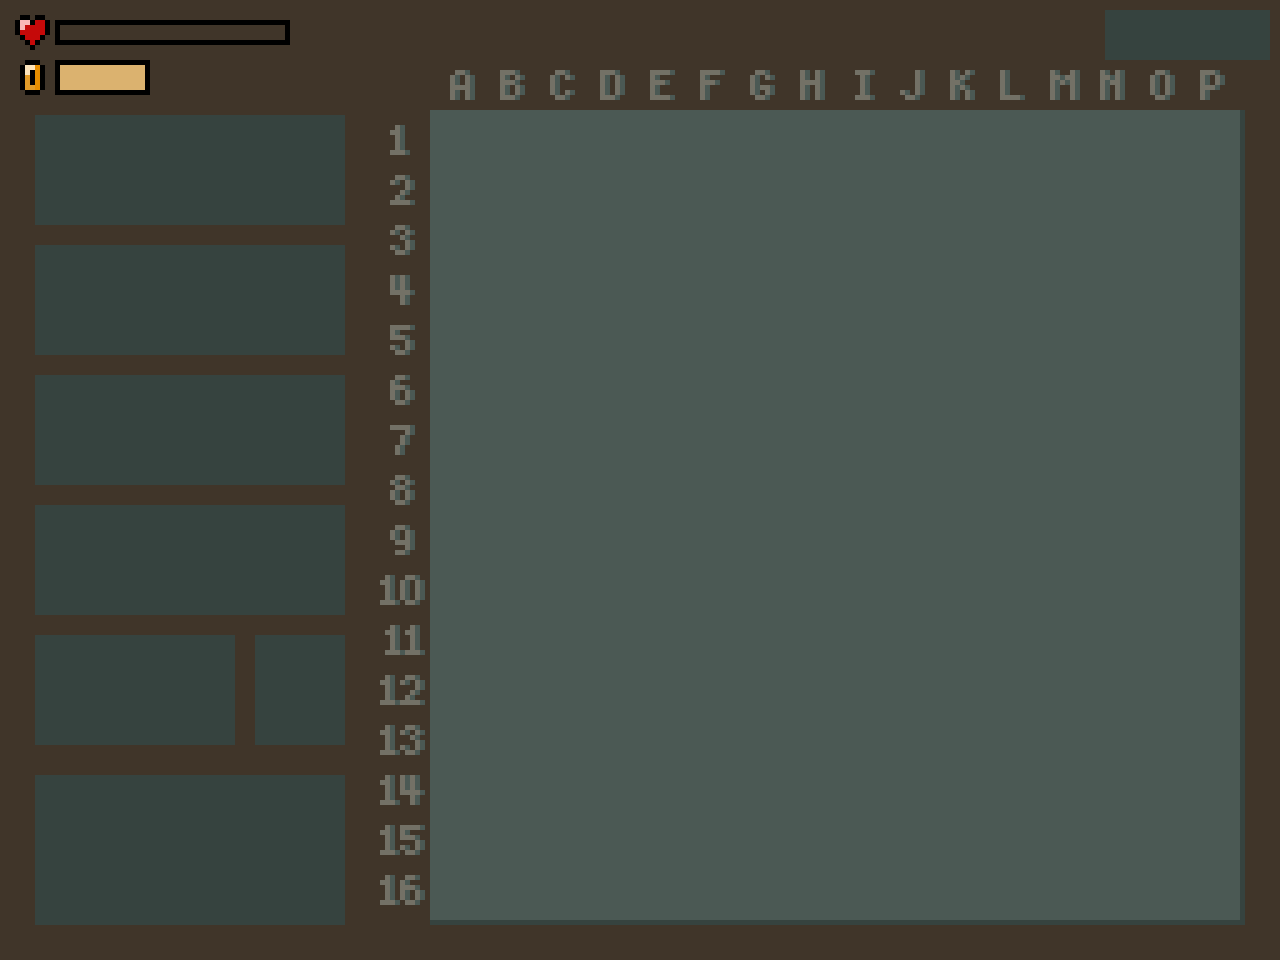
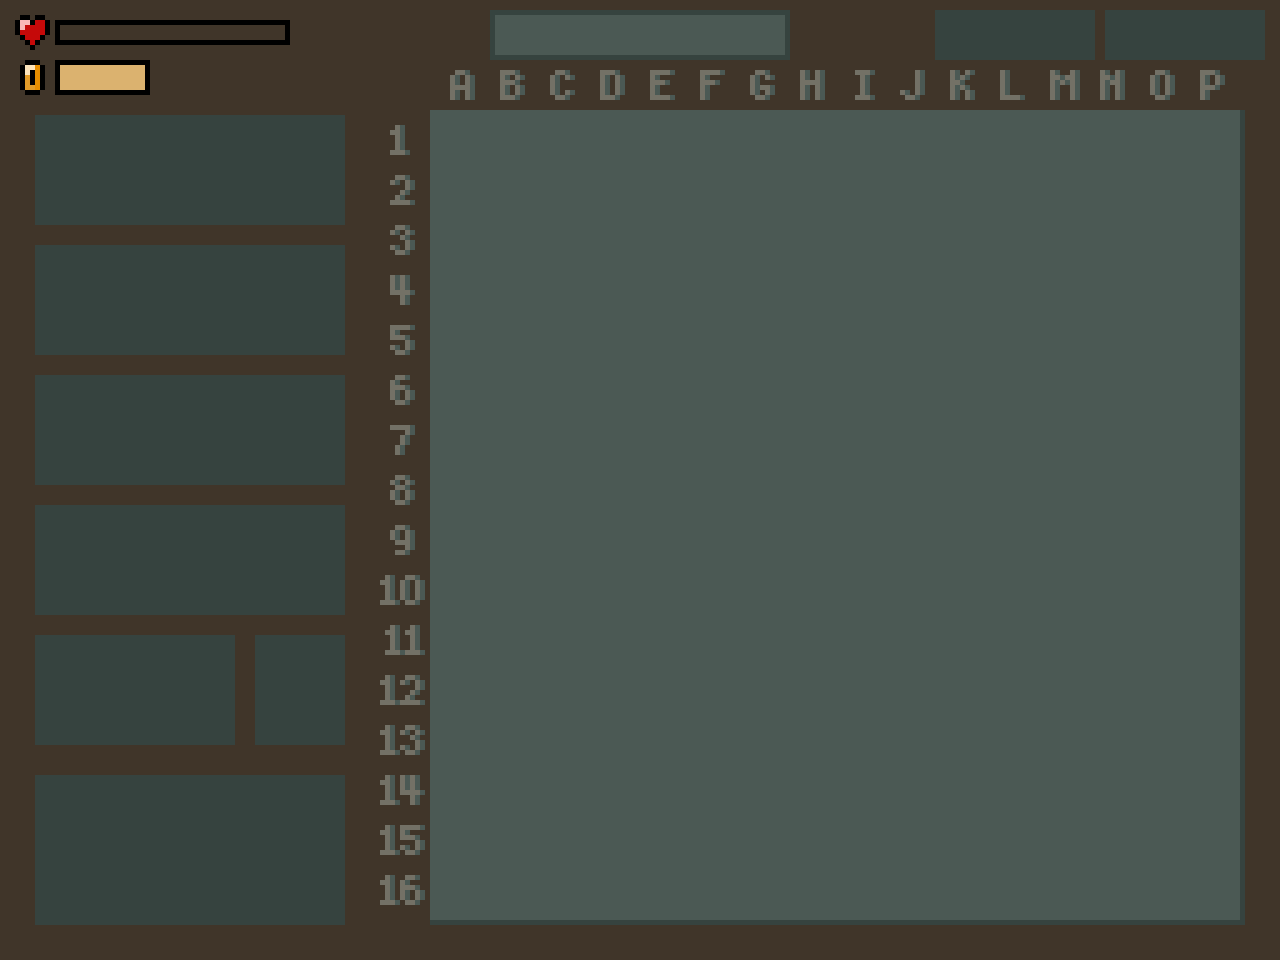
Added Level title and retry button

Changed region(s): [[0.375, 0.0, 0.625, 0.0625]]

diff --git a/leveldata.py b/leveldata.py
@@ -3,7 +3,7 @@ level_data = [
     {
         "levelno": 0,
         "startmoney": 99999,
-        "tiles":[
+        "tiles": [
             [1, 1, 1, 1, 1, 1, 1, 1, 1, 1, 1, 1, 1, 1, 1, 1],
             [1, 1, 1, 1, 1, 1, 1, 1, 1, 1, 1, 1, 1, 1, 1, 1],
             [1, 1, 0, 0, 0, 0, 0, 0, 1, 0, 0, 0, 0, 0, 1, 1],
@@ -21,7 +21,7 @@ level_data = [
             [1, 1, 1, 1, 1, 1, 1, 1, 1, 1, 1, 1, 1, 1, 1, 1],
             [1, 1, 1, 1, 1, 1, 1, 1, 1, 1, 1, 1, 1, 1, 1, 1]
         ],
-        "waves":[
+        "waves": [
             #{"type": "heavy", "count": 1, "starttile": 0, "time": -1},
             #{"type": "light", "count": 5, "starttile": 0, "time": 10},
             #{"type": "light", "count": 10, "starttile": 1, "time": 15},
@@ -29,14 +29,13 @@ level_data = [
             #{"type": "medium", "count": 10, "starttile": 1, "time": 20},
             #{"type": "light", "count": 20, "starttile": 0, "time": 20},
             #{"type": "heavy", "count": 5, "starttile": 1, "time": 20},
-            {"type": "light", "count": 1, "starttile": 0, "time": 20}
-            ]
+            {"type": "light", "count": 1, "starttile": 0, "time": 20}]
     },
 
     {
         "levelno": 1,
         "startmoney": 180,
-        "tiles":[
+        "tiles": [
             [1, 1, 1, 1, 1, 1, 1, 1, 1, 1, 1, 1, 1, 1, 1, 1],
             [1, 1, 1, 1, 1, 1, 1, 1, 1, 1, 1, 1, 1, 1, 1, 1],
             [1, 1, 1, 1, 1, 1, 1, 1, 1, 1, 1, 1, 1, 1, 1, 1],
@@ -54,7 +53,7 @@ level_data = [
             [1, 1, 1, 1, 1, 1, 1, 1, 1, 1, 1, 1, 1, 1, 1, 1],
             [1, 1, 1, 1, 1, 1, 1, 1, 1, 1, 1, 1, 1, 1, 1, 1]
         ],
-        "waves":[
+        "waves": [
             {"type": "light", "count": 2, "time": -1},
             {"type": "light", "count": 5, "time": 30},
             {"type": "light", "count": 7, "time": 30},
@@ -65,7 +64,7 @@ level_data = [
     {
         "levelno": 2,
         "startmoney": 200,
-        "tiles":[
+        "tiles": [
             [1, 1, 1, 1, 1, 1, 1, 1, 1, 1, 1, 1, 1, 1, 1, 1],
             [1, 1, 1, 1, 1, 1, 1, 1, 1, 1, 1, 1, 1, 1, 1, 1],
             [1, 1, 1, 1, 1, 1, 1, 1, 1, 1, 1, 1, 1, 1, 1, 1],
@@ -83,12 +82,71 @@ level_data = [
             [1, 1, 1, 1, 1, 1, 1, 1, 1, 1, 1, 1, 1, 1, 1, 1],
             [1, 1, 1, 1, 1, 1, 1, 1, 1, 1, 1, 1, 1, 1, 1, 1]
         ],
-        "waves":[
+        "waves": [
             {"type": "light", "count": 5, "time": -1},
             {"type": "light", "count": 8, "time": 25},
             {"type": "medium", "count": 5, "time": 25},
             {"type": "light", "count": 15, "time": 20},
-            {"type": "medium", "count": 8, "time": 30},
-            ]
+            {"type": "medium", "count": 8, "time": 30}]
+    },
+
+    {
+        "levelno": 3,
+        "startmoney": 200,
+        "tiles": [
+            [1, 1, 1, 1, 1, 1, 1, 1, 1, 1, 1, 1, 1, 1, 1, 1],
+            [1, 1, 1, 1, 1, 1, 1, 1, 1, 1, 1, 1, 1, 1, 1, 1],
+            [1, 1, 1, 1, 1, 1, 1, 1, 1, 1, 1, 1, 1, 1, 1, 1],
+            [1, 1, 1, 1, 1, 1, 1, 1, 1, 1, 1, 1, 1, 1, 1, 1],
+            [1, 1, 1, 1, 1, 1, 1, 1, 1, 1, 1, 1, 1, 1, 1, 1],
+            [1, 1, 0, 0, 0, 0, 0, 0, 0, 0, 0, 0, 0, 0, 1, 1],
+            [1, 1, 0, 0, 0, 0, 0, 0, 0, 0, 0, 0, 0, 0, 1, 1],
+            [1, 1, 0, 2, 0, 0, 0, 0, 0, 0, 0, 0, 0, 0, 1, 1],
+            [1, 1, 0, 0, 0, 0, 0, 0, 0, 0, 0, 0, 3, 0, 1, 1],
+            [1, 1, 0, 0, 0, 0, 0, 0, 0, 0, 0, 0, 0, 0, 1, 1],
+            [1, 1, 0, 0, 0, 0, 0, 0, 0, 0, 0, 0, 0, 0, 1, 1],
+            [1, 1, 1, 1, 1, 1, 1, 1, 1, 1, 1, 1, 1, 1, 1, 1],
+            [1, 1, 1, 1, 1, 1, 1, 1, 1, 1, 1, 1, 1, 1, 1, 1],
+            [1, 1, 1, 1, 1, 1, 1, 1, 1, 1, 1, 1, 1, 1, 1, 1],
+            [1, 1, 1, 1, 1, 1, 1, 1, 1, 1, 1, 1, 1, 1, 1, 1],
+            [1, 1, 1, 1, 1, 1, 1, 1, 1, 1, 1, 1, 1, 1, 1, 1]
+        ],
+        "waves": [
+            {"type": "light", "count": 5, "time": -1},
+            {"type": "light", "count": 10, "time": 30},
+            {"type": "medium", "count": 8, "time": 25},
+            {"type": "light", "count": 15, "time": 30},
+            {"type": "medium", "count": 12, "time": 30},
+            {"type": "heavy", "count": 8, "time": 40}]
+    },
+    
+    {
+        "levelno": 4,
+        "startmoney": 280,
+        "tiles": [
+            [1, 1, 1, 1, 1, 1, 1, 1, 1, 1, 1, 1, 1, 1, 1, 1],
+            [1, 1, 1, 1, 1, 1, 1, 1, 1, 1, 1, 1, 1, 1, 1, 1],
+            [1, 1, 0, 0, 0, 1, 1, 1, 1, 1, 1, 1, 1, 1, 1, 1],
+            [1, 1, 0, 2, 0, 1, 1, 1, 1, 1, 1, 1, 1, 1, 1, 1],
+            [1, 1, 0, 0, 0, 1, 1, 1, 1, 1, 1, 1, 1, 1, 1, 1],
+            [1, 1, 0, 0, 0, 1, 1, 1, 1, 1, 1, 1, 1, 1, 1, 1],
+            [1, 1, 0, 0, 0, 0, 0, 0, 0, 0, 0, 0, 0, 0, 1, 1],
+            [1, 1, 0, 0, 0, 0, 0, 0, 0, 0, 0, 0, 0, 0, 1, 1],
+            [1, 1, 0, 0, 0, 0, 0, 0, 0, 0, 0, 0, 3, 0, 1, 1],
+            [1, 1, 0, 0, 0, 0, 0, 0, 0, 0, 0, 0, 0, 0, 1, 1],
+            [1, 1, 0, 0, 0, 1, 1, 1, 1, 1, 1, 1, 1, 1, 1, 1],
+            [1, 1, 0, 0, 0, 1, 1, 1, 1, 1, 1, 1, 1, 1, 1, 1],
+            [1, 1, 0, 2, 0, 1, 1, 1, 1, 1, 1, 1, 1, 1, 1, 1],
+            [1, 1, 0, 0, 0, 1, 1, 1, 1, 1, 1, 1, 1, 1, 1, 1],
+            [1, 1, 1, 1, 1, 1, 1, 1, 1, 1, 1, 1, 1, 1, 1, 1],
+            [1, 1, 1, 1, 1, 1, 1, 1, 1, 1, 1, 1, 1, 1, 1, 1]
+        ],
+        "waves": [
+            {"type": "light", "count": 5, "starttile": 0, "time": -1},
+            {"type": "light", "count": 10, "starttile": 1, "time": 30},
+            {"type": "medium", "count": 8, "starttile": 0, "time": 25},
+            {"type": "light", "count": 15, "starttile": 1, "time": 30},
+            {"type": "medium", "count": 12, "starttile": 0, "time": 30},
+            {"type": "heavy", "count": 8, "starttile": 1, "time": 40}]
     }
     ]

diff --git a/classes/Level.py b/classes/Level.py
@@ -24,7 +24,8 @@ class Level(Scene):
         #Loading up assets needed in scene
         self.bg = pygame.image.load("./assets/levelbg.png")
 
-        self.font = pygame.font.Font("./assets/font.ttf", 24)
+        self.title_font = pygame.font.Font("./assets/font.ttf", 40)
+        self.money_font = pygame.font.Font("./assets/font.ttf", 24)
 
 
     def start(self):
@@ -71,6 +72,7 @@ class Level(Scene):
 
         #Buttons are instantiated
         self.back_btn = Button(self.game, "back")
+        self.retry_btn = Button(self.game, "retry")
 
         self.create_basic_btn = CreateTowerButton(self.game, "basic")
         self.create_splash_btn = CreateTowerButton(self.game, "splash")
@@ -104,7 +106,16 @@ class Level(Scene):
         self.ended = False
 
         #Level background image is blitted to the scene
+        #This image is not updated every frame as this would uneccessarily reduce framerate
         self.game["display"].blit(self.bg, (0, 0))
+
+        if self.level_data["levelno"] < 10:
+            string = "LEVEL 0" + str(self.level_data["levelno"])
+        else:
+            string = "LEVEL " + str(self.level_data["levelno"])
+
+        title_text = self.title_font.render(string, True, (54,67,63))
+        self.game["display"].blit(title_text, (555, 18))
 
         #Starts loop from method found in parent Scene class
         self.do_loop()
@@ -233,6 +244,10 @@ class Level(Scene):
                 elif self.back_btn.within_bounds(self.mouse_pos):
                     self.stopped = True
 
+                elif self.retry_btn.within_bounds(self.mouse_pos):
+                    self.stopped = True
+                    self.start()
+
                 else:
                     self.selected = None
 
@@ -243,7 +258,7 @@ class Level(Scene):
                 #Level while loop ends and so game returns to LevelSelectScene
                 self.stopped = True
             
-            elif self.retry_btn.within_bounds(self.mouse_pos):
+            elif self.level_end_retry_btn.within_bounds(self.mouse_pos):
                 self.stopped = True
                 self.start()
             
@@ -268,11 +283,12 @@ class Level(Scene):
 
             #Money display is updated
             pygame.draw.rect(self.game["display"], (219, 178, 111), (60, 65, 85, 25))
-            money_text = self.font.render(str(self.money), True, (0,0,0))
+            money_text = self.money_font.render(str(self.money), True, (0,0,0))
             self.game["display"].blit(money_text, (64, 67))
             
-            #Back button is updated
+            #Back / retry button is updated
             self.back_btn.update(self.mouse_pos)
+            self.retry_btn.update(self.mouse_pos)
 
             #Tower create buttons are updated
             self.create_basic_btn.update(self.mouse_pos, self.selected, self.money)
@@ -364,8 +380,8 @@ class Level(Scene):
             #Next wave automatically starts when time is up
             self.next_wave_timer += 1
 
-            if self.wave_no != len(self.waves) - 1:
-                if self.next_wave_timer == self.waves[self.wave_no + 1]["time"] * 60:
+            if self.wave_no != len(self.waves) - 1 and self.waves[self.wave_no + 1]["time"] != -1:
+                if self.next_wave_timer >= self.waves[self.wave_no + 1]["time"] * 60:
                     self.start_next_wave()
 
             #Checks if level has been won
@@ -383,7 +399,7 @@ class Level(Scene):
 
         else:
             self.return_btn.update(self.mouse_pos)
-            self.retry_btn.update(self.mouse_pos)
+            self.level_end_retry_btn.update(self.mouse_pos)
 
 
     def start_next_wave(self):
@@ -433,7 +449,7 @@ class Level(Scene):
 
         #Buttons to return to the level select scene or to replay the level
         self.return_btn = Button(self.game, "return")
-        self.retry_btn = Button(self.game, "retry")
+        self.level_end_retry_btn = Button(self.game, "levelendretry")
 
         if won:
             star = pygame.image.load("./assets/star.png")

diff --git a/classes/Button.py b/classes/Button.py
@@ -23,8 +23,12 @@ class Button:
 
         #Bounds and sprites are set depending on what type of button is instantiated
         if self.type == "back":
-            self.bounds = [[1105, 1270], [10, 60]]
+            self.bounds = [[1105, 1265], [10, 60]]
             self.sprite = pygame.image.load("./assets/backbtn.png")
+
+        elif self.type == "retry":
+            self.bounds = [[935, 1095], [10, 60]]
+            self.sprite = pygame.image.load("./assets/retrybtn.png")
 
         elif self.type == "deletetower":
             self.bounds = [[255, 345], [635, 745]]
@@ -38,9 +42,9 @@ class Button:
             self.bounds = [[450, 630], [585, 645]]
             self.sprite = pygame.image.load("./assets/returnbtn.png")
 
-        elif self.type == "retry":
+        elif self.type == "levelendretry":
             self.bounds = [[650, 830], [585, 645]]
-            self.sprite = pygame.image.load("./assets/retrybtn.png")
+            self.sprite = pygame.image.load("./assets/levelendretrybtn.png")
 
 
     def within_bounds(self, mouse_pos):

diff --git a/classes/Scene.py b/classes/Scene.py
@@ -24,9 +24,10 @@ class Scene:
             self.do_updates()
 
             #Updates the game at 60fps
+            #If PC game is ran on cannot run at 60fps, in game "seconds" will be slower
             pygame.display.update()
             self.game["clock"].tick(60)
-            #print(self.game["clock"].get_fps())
+            print(self.game["clock"].get_fps())
 
     def do_events(self):
         return

diff --git a/classes/Tower.py b/classes/Tower.py
@@ -48,7 +48,7 @@ class Tower(GridTile):
             self.sprite = pygame.image.load("./assets/towersniper.png")
             self.sprite_agro = pygame.image.load("./assets/towersniperagro.png")
             self.range = 200
-            self.damage = 6
+            self.damage = 8
             self.fire_rate = 1.5
 
         elif self.type == "flame":
